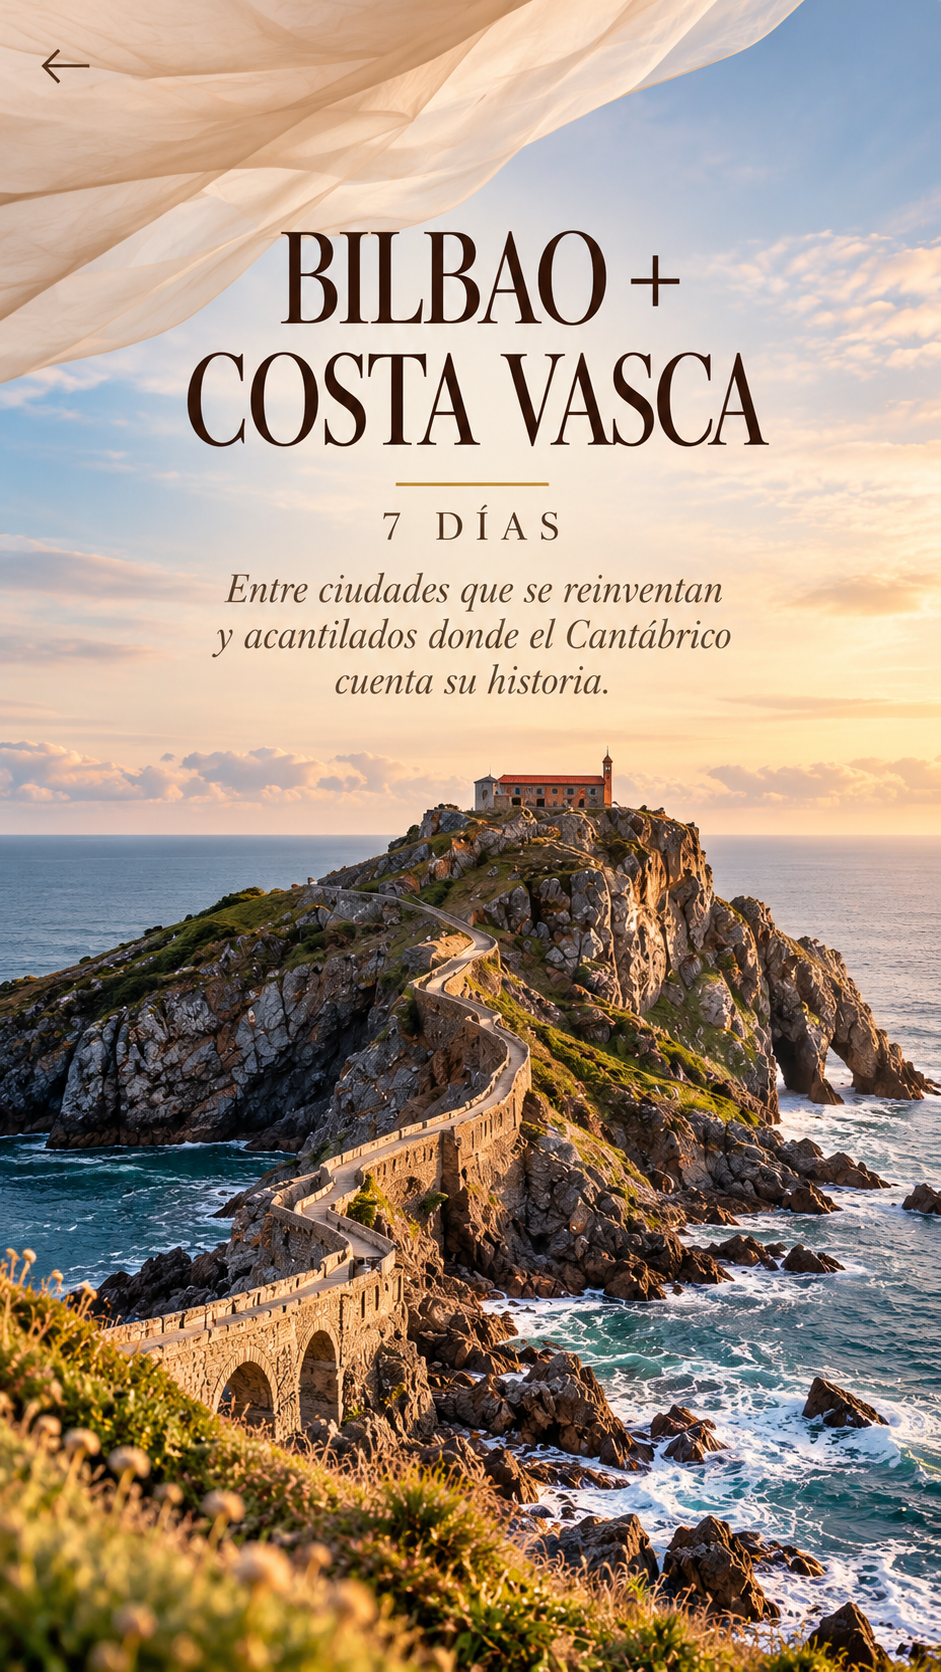
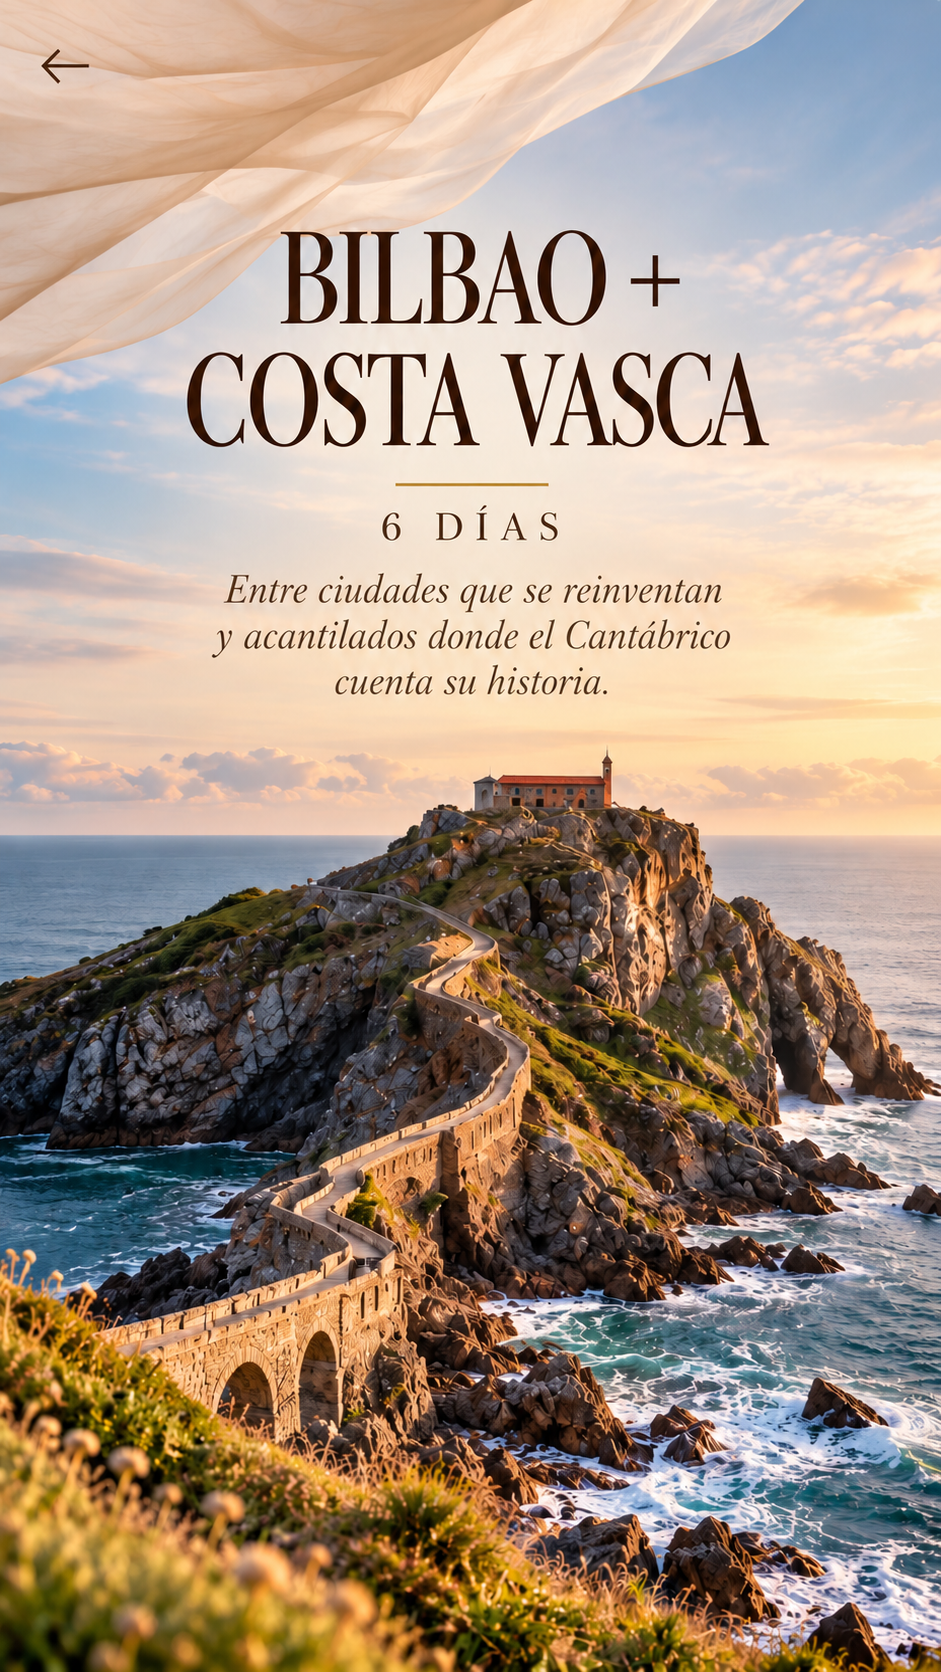
mas cambios esteticos

diff --git a/src/styles.css b/src/styles.css
@@ -422,15 +422,15 @@
     line-height: 1.35;
     text-transform: uppercase;
   }
-  .library__browse { display: grid; grid-template-columns: 1fr 1fr; gap: 2.5%; }
+  .library__browse { display: grid; grid-template-columns: minmax(0, 40%) 1fr; gap: 2.5%; }
   .library__browse-card {
     display: flex;
     align-items: center;
     justify-content: space-between;
     gap: 5%;
     min-width: 0;
-    min-height: 54px;
-    padding: 3.5% 5.5%;
+    min-height: 44px;
+    padding: 2.5% 4.5%;
     border: 0;
     border-radius: clamp(12px, 2.7cqw, 24px);
     background: #f7efe3da;
@@ -447,7 +447,7 @@
     color: #19130c;
     text-align: left;
     font-family: var(--font-editorial);
-    font-size: clamp(1.05rem, 4.5cqw, 2.7rem);
+    font-size: clamp(1.05rem, 3.6cqw, 2.2rem);
     font-weight: 700;
     letter-spacing: -.06em;
     line-height: 1;
@@ -516,11 +516,10 @@
   .catalog__soon { display: block; margin-top: .15rem; text-align: left; font: 400 .5rem/1.4 'Manrope', sans-serif; letter-spacing: .05em; }
   .catalog__countries { display: grid; grid-template-columns: minmax(0, 1fr); gap: .65rem 1.5rem; margin: 0; padding: 0; list-style: none; }
   .catalog__countries li { min-width: 0; }
-  .catalog__country { display: grid; grid-template-columns: minmax(0, 1fr) 64px 32px; gap: .45rem; align-items: center; width: 100%; min-height: 72px; padding: .25rem .8rem .25rem 1rem; border: 1px solid #dfcfc2; border-radius: 14px; background: linear-gradient(120deg, #ffffffdc, #faf6efc4); color: #17100b; text-align: left; box-shadow: 0 8px 20px -14px #987d5750; }
+  .catalog__country { display: grid; grid-template-columns: minmax(0, 1fr) 64px; gap: .45rem; align-items: center; width: 100%; min-height: 72px; padding: .25rem .8rem .25rem 1rem; border: 1px solid #dfcfc2; border-radius: 14px; background: linear-gradient(120deg, #ffffffdc, #faf6efc4); color: #17100b; text-align: left; box-shadow: 0 8px 20px -14px #987d5750; }
   .catalog__country > span:first-child { font: 600 clamp(1.35rem, 3.5cqw, 2rem)/1.05 var(--font-editorial); letter-spacing: -.045em; overflow-wrap: anywhere; }
   .catalog__art { width: 100%; height: 68px; object-fit: contain; flex-shrink: 0; pointer-events: none; }
   .catalog__art--fallback { padding: 15%; color: #bea78c; }
-  .catalog__arrow { display: grid; place-items: center; width: 32px; height: 32px; border: 1px solid #854536; border-radius: 50%; color: #713323; font: 400 1.35rem/1 Georgia, serif; }
   .catalog__filters { display: flex; align-items: center; justify-content: space-between; flex-wrap: wrap; gap: .7rem; margin-bottom: 1.4rem; color: #795745; font-size: .75rem; line-height: 1.6; }
   .catalog__filters button { display: inline-flex; align-items: center; gap: .8rem; min-height: 44px; padding: .3rem .7rem; border: 1px solid #dbc7b6; border-radius: 999px; background: #fffaf4e6; font-size: .7rem; }
   .catalog__group { margin-bottom: 1.8rem; }
@@ -568,7 +567,6 @@
   .library__view[data-stage='out'] { animation: catalog-out .16s ease-in both; pointer-events: none; }
   .library__view[data-stage='in'] { animation: catalog-in .42s var(--ease-reveal) both; pointer-events: none; }
   .catalog__country, .library__browse-card:not(:disabled), .library__continent:not(:disabled) { transition: border-color .3s, box-shadow .3s, background .3s, transform .3s var(--ease-reveal); }
-  .catalog__country .catalog__arrow { transition: transform .3s var(--ease-reveal); }
   @keyframes catalog-out { to { opacity: 0; transform: translateX(-10px); } }
   @keyframes catalog-in { from { opacity: 0; transform: translateX(14px); } to { opacity: 1; transform: none; } }
 
@@ -605,13 +603,12 @@
   }
   @media (hover: hover) and (pointer: fine) {
     .catalog__country:hover, .library__browse-card:not(:disabled):hover, .library__continent:not(:disabled):hover { transform: translateY(-2px); border-color: #b88661; box-shadow: 0 10px 26px -12px #987d5766; }
-    .catalog__country:hover .catalog__arrow { transform: translateX(2px); }
   }
   @media (max-width: 359px) {
-    .library__browse { grid-template-columns: 1fr; gap: .65rem; }
-    .library__browse-card { padding: .7rem 1rem; gap: 1rem; }
-    .library__browse-card svg, .library__browse-card svg:last-child { flex-basis: 34px; width: 34px; }
-    .library__browse-card > span { font-size: 1.6rem; }
+    .library__browse { grid-template-columns: minmax(0, 220px); gap: .65rem; }
+    .library__browse-card { padding: .5rem .8rem; gap: .8rem; }
+    .library__browse-card svg, .library__browse-card svg:last-child { flex-basis: 28px; width: 28px; }
+    .library__browse-card > span { font-size: 1.3rem; }
     .library__grid { grid-template-columns: 1fr; }
     .library__continent-name { font-size: 2.8rem; }
     .library__count { font-size: .85rem; }
@@ -626,7 +623,7 @@
     .library__header { margin-block: 2.5rem 3rem; }
     .library__header p { font-size: 1.2rem; }
     .library__browse { max-width: 750px; }
-    .library__browse-card > span { font-size: 2.5rem; }
+    .library__browse-card > span { font-size: 2rem; }
     .library__browse-card--type > span { font-size: 2rem; }
     .library__grid { grid-template-columns: repeat(4, minmax(0, 1fr)); }
     .library__continent { aspect-ratio: .9; padding: 7%; }

diff --git a/src/data/library-trip-details.ts b/src/data/library-trip-details.ts
@@ -162,11 +162,10 @@ const entries: readonly Entry[] = [
     reflection: 'Montañas que se recorren con los pies, pero se quedan siempre en el corazón.',
   },
   {
-    id: 'bilbao', duration: 7,
+    id: 'bilbao', duration: 6,
     introduction: 'Entre ciudades que se reinventan y acantilados donde el Cantábrico cuenta su historia.',
     routeIntroduction: 'Entre ciudad, acantilados y pueblos marineros del País Vasco.',
     routeSummary: 'Ciudad, acantilados y playas.', routeClosing: 'La esencia del País Vasco en una ruta única.',
-    contentNote: 'La portada indica 7 días; la lámina de etapas detalla los días 1–6.',
     stages: [
       ['Bilbao', 'Día 1', 'Madrid, Salinas de Añana y primera toma de contacto con la ciudad. Casco Viejo, free tour y atardecer desde Artxanda.'],
       ['Bilbao y costa de Getxo', 'Día 2', 'Guggenheim, Puente de Bizkaia, Getxo, La Galea, Sopelana y Castillo de Butrón.'],
@@ -557,11 +556,10 @@ const entries: readonly Entry[] = [
     reflection: 'Un viaje entre lagos y montañas donde la Navidad convierte cada paisaje en un recuerdo especial.',
   },
   {
-    id: 'islandia', duration: 12,
+    id: 'islandia', duration: 11,
     introduction: 'Entre volcanes, glaciares y auroras boreales.',
     routeIntroduction: 'Una vuelta a Islandia entre volcanes, cascadas y naturaleza salvaje.',
     routeSummary: 'Volcanes, glaciares y cascadas.', routeClosing: 'Naturaleza salvaje en estado puro.',
-    contentNote: 'La portada indica 12 días; la lámina de etapas detalla los días 1–11.',
     stages: [
       ['Keflavík', 'Día 1', 'Llegada a Islandia y primeros paisajes volcánicos.'],
       ['Reikiavik y Reykjadalur', 'Día 2', 'La capital, cultura y un baño en aguas termales naturales.'],

diff --git a/tests/library-trips.spec.ts b/tests/library-trips.spec.ts
@@ -8,13 +8,13 @@ import { TRIP_DETAILS } from '../src/data/trip-details'
 // Independent editorial inventory: [duration on cover, itinerary cards].
 const inventory: Record<string, [number, number]> = {
   galicia: [9,6], asturias: [8,8], cantabria: [10,10], navarra: [6,6],
-  'pirineo-aragones': [5,6], ordesa: [8,8], bilbao: [7,6], menorca: [7,7],
+  'pirineo-aragones': [5,6], ordesa: [8,8], bilbao: [6,6], menorca: [7,7],
   'la-palma': [7,7], 'toulouse-carcasona': [3,3], paris: [4,4], londres: [4,4],
   escocia: [13,11], berlin: [5,5], 'austria-tirol-baviera': [9,5], amsterdam: [4,4],
   belgica: [6,5], budapest: [4,4], 'cracovia-navidad': [5,5], 'atenas-santorini': [7,7],
   'croacia-venecia': [15,13], roma: [5,5], 'milan-verona': [3,3],
   'toscana-cinque-terre': [7,7], oporto: [3,3], 'suiza-navidad': [5,5],
-  islandia: [12,9], japon: [18,7], tailandia: [15,7], vietnam: [17,7],
+  islandia: [11,9], japon: [18,7], tailandia: [15,7], vietnam: [17,7],
   filipinas: [18,6], 'malasia-singapur': [15,7], peru: [18,13], colombia: [18,6],
   'estados-unidos-este': [12,3], 'estados-unidos-oeste': [22,9],
   'riviera-maya': [9,8], marruecos: [10,7], tunez: [8,5],

diff --git a/src/screens/LibraryCatalog.tsx b/src/screens/LibraryCatalog.tsx
@@ -34,7 +34,7 @@ export function LibraryCatalog({ view, titleRef, onNavigate }: {
     {view.page === 'countries' ? <ul className="catalog__countries" aria-label="Países de la biblioteca">
       {COUNTRIES.map(item => <li key={item.code}>
         <button data-reveal="" data-reveal-frame="" data-reveal-group="" id={`country-${item.code}`} className="catalog__country" onClick={() => onNavigate(`#biblioteca/viajes?pais=${item.code}`, `country-${item.code}`)}>
-          <span data-reveal="">{item.name}</span><ArtIcon icon={item.code} tone={item.tone} /><span data-reveal="" className="catalog__arrow" aria-hidden="true">→</span>
+          <span data-reveal="">{item.name}</span><ArtIcon icon={item.code} tone={item.tone} />
         </button>
       </li>)}
     </ul> : view.page === 'invalid' ? <div className="catalog__empty" role="status"><p data-reveal="">Este enlace no corresponde a un país o filtro de la biblioteca.</p><button data-reveal="" className="text-button" onClick={() => onNavigate('#biblioteca/viajes')}>Ver todos los viajes</button></div> : <>

diff --git a/src/data/trip-assets.ts b/src/data/trip-assets.ts
@@ -1440,7 +1440,7 @@ export const TRIP_ASSETS = {
     "closingImage": {
       "src": "/media/trips/japon/esencia.webp",
       "width": 941,
-      "height": 498
+      "height": 463
     },
     "stages": [
       {

diff --git a/tasks/todo.md b/tasks/todo.md
@@ -1,3 +1,29 @@
+## Biblioteca · Países sin flechas junto a los mapas · 09/11/2026
+
+- [x] Comparar las tarjetas de países con las de continentes y todos los viajes.
+- [x] Retirar las flechas y su columna de las tarjetas de países.
+- [x] Verificar navegación y encuadres responsive; completar Review.
+
+### Review
+
+- **Resumen de cambios:** `src/screens/LibraryCatalog.tsx` elimina las flechas junto a los mapas de países. `src/styles.css` deja dos columnas (nombre y mapa) y retira los estilos y animaciones de esas flechas, igualando la presentación sin flechas del resto del catálogo.
+- **Verificación:** pruebas existentes de navegación por países y continentes y listados responsive: 6/6 correctas en Chromium y WebKit, con cuatro tamaños de pantalla por navegador (280, 390, 941 y 1440 px), sin desbordamientos. `git diff --check`: sin errores de espacios.
+- **Riesgos potenciales:** el mapa queda al extremo derecho y el nombre dispone de más espacio; los encuadres comprobados pasan.
+- **Siguientes pasos sugeridos:** revisar la vista de países en el dispositivo habitual.
+
+## Biblioteca · Botón Países más compacto · 09/11/2026
+
+- [x] Revisar el botón y sus estilos responsive.
+- [x] Reducir el ancho, relleno, texto e iconos de forma proporcionada.
+- [x] Verificar los encuadres existentes y completar Review.
+
+### Review
+
+- **Resumen de cambios:** `src/styles.css` reduce aproximadamente un 20 % el ancho del botón Países, ajusta el relleno y el texto y escala los iconos con el botón. En pantallas inferiores a 360 px limita el ancho a 220 px y reduce los iconos a 28 px. Mantiene una altura táctil mínima de 44 px.
+- **Verificación:** prueba responsive existente de biblioteca: 2/2 correctas en Chromium y WebKit, siete tamaños por navegador, sin desbordamientos y con controles de al menos 44 px de altura. `git diff --check`: sin errores de espacios.
+- **Riesgos potenciales:** el texto dispone de menos espacio horizontal; los encuadres comprobados pasan.
+- **Siguientes pasos sugeridos:** revisar el tamaño en el dispositivo habitual.
+
 ## Cantabria · Incorporar la lámina de ruta indicada · 09/11/2026
 
 - [x] Revisar los recursos de Cantabria y el formato de ruta de los otros viajes.
@@ -287,6 +313,56 @@
 
 - Incorporar las fotografías originales en `public/media/about/` y completar `src`, `alt` y, cuando sea necesario, `position` en `src/data/about-photos.ts`.
 - Revisar los encuadres con las fotografías definitivas en móvil y escritorio.
+
+## Recorte de la imagen final de Japón · 09/11/2026
+
+- [x] Revisar el original y localizar el texto negro incluido en el recorte superior.
+- [x] Ajustar el recorte reproducible, regenerar únicamente la imagen final de Japón y actualizar sus dimensiones.
+- [x] Verificar visualmente el resultado y comprobar los recursos.
+
+### Review
+
+- **Resumen de cambios:** el recorte final de Japón comienza ahora en el píxel 1209 del original, por debajo del texto. Actualizados el manifiesto reproducible, `public/media/trips/japon/esencia.webp` y sus dimensiones declaradas (941 × 463).
+- **Verificación:** imagen resultante revisada visualmente, sin texto negro; inventario y decodificación de recursos correctos en Chromium y WebKit (2/2).
+- **Riesgos potenciales:** se eliminan 35 píxeles superiores del recorte anterior; el torii y su reflejo siguen completos.
+- **Siguientes pasos sugeridos:** ninguno para este ajuste.
+
+## Corrección de duración y portada de Islandia · 09/11/2026
+
+- [x] Localizar y revisar `C:\Users\Mikel\Downloads\islandia.png`, con la duración de 11 días.
+- [x] Corregir la duración a 11 días, retirar la nota de discrepancia y actualizar inventario y documentación.
+- [x] Sustituir la primera lámina original y verificar duración, carga y dimensiones.
+
+### Review
+
+- **Resumen de cambios:** Islandia pasa de 12 a 11 días en los datos compartidos por catálogo y ficha; retirada la nota de discrepancia y actualizados inventario y documentación. Sustituida `public/media/trips/islandia/originals/portada.png` por la imagen aportada de 941 × 1672.
+- **Verificación:** inventario editorial y recursos correctos en Chromium y WebKit (2/2); comprobación del visor en ambos motores con duración visible de 11 días y primera lámina idéntica al archivo aportado mediante SHA-256.
+- **Riesgos potenciales:** regenerar desde la carpeta antigua de recursos restauraría la portada de 12 días.
+- **Siguientes pasos sugeridos:** usar la portada corregida también en los recursos fuente antes de regenerar las imágenes de la biblioteca.
+
+## Sustitución de la portada original de Bilbao · 09/11/2026
+
+- [x] Localizar y revisar la nueva lámina de 6 días: `C:\Users\Mikel\Downloads\bilbao.png`.
+- [x] Sustituir la primera lámina del visor de originales y verificar su carga y dimensiones.
+
+### Review
+
+- **Resumen de cambios:** sustituido `public/media/trips/bilbao/originals/portada.png` por el PNG aportado de 6 días, conservando sus dimensiones de 941 × 1672 y su posición inicial en el visor.
+- **Verificación:** apertura de «Ver las láminas originales» en Chromium y WebKit; primera lámina «Portada» cargada y SHA-256 del recurso servido idéntico al archivo aportado.
+- **Riesgos potenciales:** una regeneración desde la carpeta antigua de recursos restauraría la portada de 7 días.
+- **Siguientes pasos sugeridos:** usar también la portada corregida en los recursos fuente antes de regenerar las imágenes de la biblioteca.
+
+## Corrección de duración de Bilbao · 09/11/2026
+
+- [x] Corregir la duración de Bilbao a 6 días y retirar la nota de discrepancia.
+- [x] Actualizar el inventario editorial y la documentación; verificar el cambio.
+
+### Review
+
+- **Resumen de cambios:** duración de Bilbao corregida a 6 días en los datos compartidos por catálogo y ficha; retirada la nota de discrepancia y actualizados el inventario de pruebas y la documentación.
+- **Verificación:** prueba existente de inventario editorial y recursos superada en Chromium y WebKit (2/2).
+- **Riesgos potenciales:** las láminas originales conservan el texto integrado de origen.
+- **Siguientes pasos sugeridos:** ninguno para esta corrección de texto.
 
 ## Carga completa de la biblioteca · 30/10/2026 · Plan aprobado
 

diff --git a/docs/library-trips.md b/docs/library-trips.md
@@ -35,12 +35,10 @@ Los dos archivos descartados de Filipinas y Costa Este y la versión breve de Cr
 
 | Viaje | Duración de portada | Etapas detalladas |
 | --- | --- | --- |
-| Bilbao y Costa Vasca | 7 días | Días 1–6 |
-| Islandia | 12 días | Días 1–11 |
 | Malasia y Singapur | 15 días | Días 1–14 |
 | Marruecos | 10 días | Días 1–9 |
 
-Estas fichas conservan la duración de portada y explican la diferencia en la sección Ruta. No se inventa una jornada adicional. Budapest conserva cuatro días según portada e itinerario; el mapa original menciona tres en su introducción. Se usa «Cuatro días, una misma ciudad» de la lámina del itinerario para el texto HTML.
+Estas fichas conservan la duración de portada y explican la diferencia en la sección Ruta. No se inventa una jornada adicional. Bilbao y Costa Vasca e Islandia tienen duraciones corregidas de 6 y 11 días respectivamente, confirmadas por el usuario y coherentes con sus etapas; sus portadas originales del visor también se han sustituido por las versiones corregidas. Budapest conserva cuatro días según portada e itinerario; el mapa original menciona tres en su introducción. Se usa «Cuatro días, una misma ciudad» de la lámina del itinerario para el texto HTML.
 
 El embalse de Linsoles aparece como «Si queda tiempo» en Benasque: se conserva como plan opcional y no aumenta las cinco etapas principales. Jaca y Valle de Tena comparten días 1–2; Kuala Lumpur y Batu Caves/Kuala Selangor también comparten días 1–2, tal como figura en los originales. Ámsterdam conserva sus cuatro temáticas en Esencia. Los subtítulos visibles y los nombres accesibles de los enlaces distinguen las dos costas de Estados Unidos.
 
